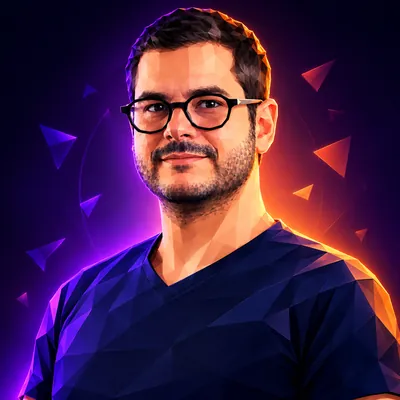
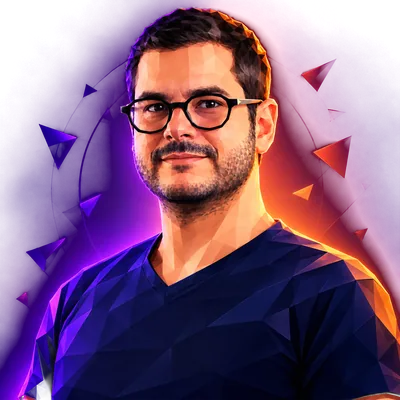
Portrait detoure

diff --git a/css/site.css b/css/site.css
@@ -1,1 +1,1 @@
-@font-face{font-family:Inter;src:url(../fonts/inter.woff2)format("woff2");font-weight:100 900;font-display:swap}@font-face{font-family:Geist;src:url(../fonts/geist.woff2)format("woff2");font-weight:100 900;font-display:swap}@font-face{font-family:JetBrains Mono;src:url(../fonts/jetbrains-mono.woff2)format("woff2");font-weight:100 800;font-display:swap}:root{--fond:#0b1120;--surface:#111c30;--surface-2:#17243a;--texte:#e6edf7;--doux:#94a3b8;--accent:#60a5fa;--cyan:#22d3ee;--ligne:#263750;--async:var(--cyan);--echec:#fcd34d;--titres:"Geist",system-ui,sans-serif;--sans:"Inter",system-ui,sans-serif;--mono:"JetBrains Mono",ui-monospace,Menlo,Consolas,monospace;--ease:cubic-bezier(.22,.61,.36,1);--d-court:.2s;--d-moyen:.35s;--d-entree:.5s}*,:before,:after{box-sizing:border-box}html{scroll-behavior:smooth}body{background:var(--fond);color:var(--texte);font:400 1.0625rem/1.65 var(--sans);-webkit-font-smoothing:antialiased;margin:0}a{color:inherit}:focus-visible{outline:2px solid var(--accent);outline-offset:3px;border-radius:4px}h1,h2,h3,h4,p,ul,figure,blockquote{margin:0}h1,h2,h3,h4{font-family:var(--titres)}ul{padding:0;list-style:none}.evitement{z-index:10;background:var(--accent);color:var(--fond);border-radius:6px;padding:.7rem 1rem;font-weight:600;text-decoration:none;position:absolute;top:-5rem;left:1rem}.evitement:focus{top:1rem}.page{width:min(800px,100% - 2.5rem);margin-inline:auto}.colonne-gauche{text-align:center;padding:2.5rem 0 1rem}main{min-width:0;padding-bottom:5rem}@media (width>=1024px){.page{grid-template-columns:260px minmax(0,800px);justify-content:center;column-gap:clamp(3rem,7vw,7rem);width:auto;padding-inline:2.5rem;display:grid}.colonne-gauche{overscroll-behavior:contain;scrollbar-width:thin;scrollbar-color:var(--ligne)transparent;flex-direction:column;height:100dvh;padding:2.5rem 0 1.5rem;display:flex;position:sticky;top:0;overflow-y:auto}main{padding-top:6rem}}.portrait{object-fit:cover;width:168px;height:168px;margin:0 auto .5rem;display:block;-webkit-mask-image:radial-gradient(circle at 50% 45%,#000 52%,#0000 71%);mask-image:radial-gradient(circle at 50% 45%,#000 52%,#0000 71%)}.colonne-gauche :is(h1,.titre,.slogan,.pitch){text-wrap:balance}h1{letter-spacing:-.025em;font-size:1.875rem;font-weight:600;line-height:1.1}.titre{font:500 1rem/1.35 var(--titres);color:var(--accent);margin-top:.6rem}.slogan{color:var(--texte);margin-top:.75rem;font-size:.9375rem;line-height:1.5}.pitch{color:var(--doux);margin-top:.75rem;font-size:.9375rem;line-height:1.55}.reperes{font:500 .875rem/1.65 var(--mono);color:var(--doux);margin-top:.9rem}.situation{color:var(--doux);margin-top:.9rem;font-size:.875rem}.nav{text-align:left;margin-top:1.5rem}.nav ul{position:relative}.nav a{border-left:2px solid var(--ligne);min-height:44px;color:var(--doux);transition:color var(--d-court)var(--ease);align-items:center;padding-left:1rem;font-size:.9375rem;text-decoration:none;display:flex}.nav a:hover{color:var(--texte)}.nav a[aria-current=true]{color:var(--texte);font-weight:600}@media (width>=1024px){.nav ul:before{content:"";width:2px;height:var(--indic-h,44px);background:var(--accent);transform:translateY(var(--indic-y,0px));transition:transform var(--d-moyen)var(--ease);position:absolute;top:0;left:0}html:not(.js) .nav ul:before{display:none}}.reseaux{flex-wrap:wrap;justify-content:center;gap:0 1rem;margin-top:1rem;display:flex}@media (width>=1024px){.reseaux{justify-content:flex-start;margin-top:auto;padding-top:.75rem}}.reseaux a{min-height:44px;color:var(--doux);transition:color var(--d-court)var(--ease);align-items:center;font-size:.875rem;text-decoration:none;display:inline-flex}.reseaux a:hover{color:var(--texte)}.reseaux a span{border-bottom:1px solid var(--ligne);position:relative}.reseaux a span:after{content:"";background:var(--accent);transform-origin:0;height:1px;transition:transform var(--d-court)var(--ease);position:absolute;bottom:-1px;left:0;right:0;transform:scaleX(0)}.reseaux a:hover span:after,.reseaux a:focus-visible span:after{transform:scaleX(1)}.barre-mobile{z-index:20;background:var(--fond);border-bottom:1px solid var(--ligne);justify-content:space-between;align-items:center;gap:1rem;height:56px;padding:0 1.25rem;display:flex;position:sticky;top:0}.nom-court{min-height:44px;font:600 1rem var(--titres);letter-spacing:-.01em;align-items:center;text-decoration:none;display:inline-flex}.menu{border:1px solid var(--doux);min-width:44px;min-height:44px;color:var(--texte);font:500 .9375rem var(--sans);cursor:pointer;background:0 0;border-radius:6px;align-items:center;gap:.6rem;padding:0 .9rem;display:inline-flex}.menu:before{content:"";width:16px;height:8px;transition:transform var(--d-court)var(--ease);border-block:2px solid}.menu[aria-expanded=true]{border-color:var(--accent);color:var(--accent)}html:not(.js) .menu{display:none}@media (width<=1023px){.js .nav{z-index:19;background:var(--surface);border-bottom:1px solid var(--doux);max-height:calc(100dvh - 56px);margin:0;padding:.75rem 1.25rem 1.25rem;display:none;position:fixed;top:56px;left:0;right:0;overflow-y:auto}.js.menu-ouvert .nav{display:block}.nav a{min-height:48px;font-size:1rem}.nav a[aria-current=true]{border-left-color:var(--accent)}.js .colonne-gauche>.nav{animation:none}}@media (width>=1024px){.barre-mobile{display:none}}.chapeau{display:none}@media (width>=1024px) and (height<=1199px){.colonne-gauche .pitch,.colonne-gauche .reperes{display:none}.chapeau{border-left:2px solid var(--accent);margin-bottom:4.5rem;padding-left:1.25rem;display:block}.chapeau .pitch{max-width:62ch;color:var(--texte);margin:0;font-size:1.125rem;line-height:1.6}.chapeau .reperes{flex-wrap:wrap;gap:.25rem 1.5rem;margin-top:.9rem;display:flex}}@media (width>=1024px) and (height<=860px){.colonne-gauche{padding-top:1.25rem;padding-bottom:.75rem}.portrait{width:100px;height:100px;margin-bottom:.3rem}h1{font-size:1.5rem}.titre,.slogan,.situation{margin-top:.4rem}.nav{margin-top:.6rem}.reseaux{padding-top:.25rem}main{padding-top:4rem}}main>section{padding-top:5.5rem}main>section:first-of-type{padding-top:0}main>section{scroll-margin-top:5rem}@media (width>=1024px){main>section{scroll-margin-top:2rem}}h2{letter-spacing:-.02em;margin-bottom:2rem;font-size:clamp(1.5rem,1.2rem + 1vw,1.875rem);font-weight:600;line-height:1.2}.prose{max-width:68ch}.prose p{color:var(--texte);font-size:1.0625rem;line-height:1.7}.prose p+p{margin-top:1.1rem}.prose .moteur{border-left:2px solid var(--accent);margin-top:1.6rem;padding-left:1rem;font-weight:600}.lignes{gap:.25rem;display:grid}.ligne{transition:background-color var(--d-court)var(--ease),opacity var(--d-court)var(--ease);border-radius:8px;gap:.25rem 1.5rem;margin-inline:-1rem;padding:1rem;display:grid;position:relative}@media (width>=640px){.ligne{grid-template-columns:8.5rem 1fr}}@media (hover:hover){.lignes:hover .ligne{opacity:.55}.lignes .ligne:hover,.lignes .ligne:focus-within{opacity:1;background:var(--surface)}}.dates{font:500 .875rem/1.75 var(--mono);letter-spacing:.02em;color:var(--doux);text-transform:uppercase}.ligne h3{font-size:1.0625rem;font-weight:600;line-height:1.4}.ligne h3 .org{color:var(--doux);font-weight:500}.ligne p.desc{color:var(--doux);margin-top:.35rem;font-size:1rem}.tags{flex-wrap:wrap;gap:.4rem;margin-top:.75rem;display:flex}.tags li{font:500 .875rem/1 var(--mono);color:var(--texte);border:1px solid var(--ligne);transition:border-color var(--d-court)var(--ease);border-radius:4px;padding:.4rem .55rem}.ligne:hover .tags li,.etape:hover .tags li{border-color:var(--doux)}.sous-titre{font:500 .875rem/1.4 var(--mono);letter-spacing:.06em;text-transform:uppercase;color:var(--doux);margin:3rem 0 1.25rem}.ligne a.etendu{text-decoration:none}.ligne a.etendu:after{content:"";border-radius:8px;position:absolute;inset:0}.ligne a.etendu:focus-visible{outline:none}.ligne:has(a.etendu:focus-visible){outline:2px solid var(--accent);outline-offset:2px}.ligne a.etendu .fleche{color:var(--doux);transition:transform var(--d-court)var(--ease),color var(--d-court)var(--ease);margin-left:.3rem;display:inline-block}.ligne:hover a.etendu .fleche{color:var(--accent);transform:translate(2px,-2px)}.timeline{margin:0;padding:0;list-style:none}.etape{border-left:1px solid var(--ligne);gap:.2rem 1.75rem;padding:0 0 2.5rem 1.75rem;display:grid;position:relative}.etape:last-child{padding-bottom:.25rem}.etape:before{content:"";border:2px solid var(--cyan);background:var(--fond);width:11px;height:11px;transition:background-color var(--d-court)var(--ease);border-radius:50%;position:absolute;top:.45rem;left:-6px}.timeline:first-of-type .etape:first-child:before,.etape:hover:before{background:var(--cyan)}@media (width>=640px){.etape{grid-template-columns:8rem 1fr}}.etape h3{font-size:1.125rem;font-weight:600;line-height:1.4}.etape h3 .org{color:var(--doux);font-weight:500}.etape p.desc{max-width:62ch;color:var(--doux);margin-top:.4rem;font-size:1rem}.domaines{border-top:1px solid var(--ligne)}.domaine{border-bottom:1px solid var(--ligne);gap:.6rem 2rem;padding:1.5rem 0;display:grid}@media (width>=768px){.domaine{grid-template-columns:14rem 1fr}}.domaine h3{font-size:1.0625rem;font-weight:600;line-height:1.45}.savoirs{color:var(--texte);flex-wrap:wrap;gap:.3rem 0;line-height:1.55;display:flex}.savoirs li:not(:last-child):after{content:"/";color:var(--doux);margin:0 .65rem}.interets{border-top:1px solid var(--ligne)}.interet{border-bottom:1px solid var(--ligne);grid-template-columns:3.5rem 1fr;align-items:start;gap:1.25rem;padding:1.4rem 0;display:grid}.interet svg{fill:none;width:56px;height:56px;stroke:var(--doux);stroke-width:1.4px;stroke-linecap:round;stroke-linejoin:round}.interet svg .acc{stroke:var(--cyan)}.interet h3{font-size:1.0625rem;font-weight:600;line-height:1.45}.interet p{max-width:62ch;color:var(--doux);margin-top:.25rem}.interet a{color:var(--texte);text-underline-offset:3px;text-decoration-color:var(--doux)}.interet a:hover{color:var(--accent)}.cas+.cas{border-top:1px solid var(--ligne);margin-top:3.5rem;padding-top:2.5rem}.cas-entete .dates{margin-bottom:.25rem;display:block}.cas-entete h3{letter-spacing:-.02em;font-size:1.75rem;font-weight:600;line-height:1.2}.cas-entete p{max-width:68ch;color:var(--texte);margin-top:.6rem}.bascule{width:100%;min-height:44px;color:inherit;font:inherit;letter-spacing:inherit;text-align:left;cursor:pointer;transition:color var(--d-court)var(--ease);background:0 0;border:0;justify-content:space-between;align-items:center;gap:1rem;padding:0;display:flex}.bascule:hover{color:var(--accent)}.signe{border:1px solid var(--doux);border-radius:50%;flex:none;width:2.25rem;height:2.25rem;position:relative}.signe:before,.signe:after{content:"";width:.8rem;height:2px;transition:transform var(--d-moyen)var(--ease);background:currentColor;margin:-1px 0 0 -.4rem;position:absolute;top:50%;left:50%}.signe:after{transform:rotate(90deg)}.bascule[aria-expanded=true] .signe:before,.bascule[aria-expanded=true] .signe:after{transform:rotate(180deg)}html:not(.js) .bascule{cursor:default}html:not(.js) .signe{display:none}.js .cas-detail{grid-template-rows:1fr;display:grid}.js .cas-interieur{min-height:0;overflow:hidden}.js .cas-detail.ferme{visibility:hidden;grid-template-rows:0fr}.js .cas-detail.anime{transition:grid-template-rows var(--d-moyen)var(--ease),visibility 0s}.js .cas-detail.anime.ferme{transition:grid-template-rows var(--d-moyen)var(--ease),visibility 0s var(--d-moyen)}.schema{background:var(--surface);border:1px solid var(--ligne);border-radius:10px;margin:2rem 0;padding:clamp(.75rem,2vw,1.25rem)}.schema-haut{flex-wrap:wrap;justify-content:space-between;align-items:center;gap:.5rem 1rem;margin-bottom:.75rem;display:flex}.schema-defile{overscroll-behavior-x:contain;border-radius:6px;overflow-x:auto}.schema figcaption{max-width:72ch;color:var(--doux);margin-top:1rem;font-size:.9375rem}.legende{font:500 .875rem/1.6 var(--mono);color:var(--doux);flex-wrap:wrap;gap:.25rem 1.25rem;display:flex}.legende span:before{content:"";vertical-align:middle;border-top:2px solid;width:1.4rem;height:0;margin-right:.45rem;display:inline-block}.legende .l-req:before{border-color:var(--accent)}.legende .l-async:before{border-color:var(--async)}.legende .l-echec:before{border-color:var(--echec);border-top-style:dashed}.agrandir{border:1px solid var(--doux);min-height:44px;color:var(--texte);font:500 .875rem var(--mono);cursor:pointer;transition:border-color var(--d-court)var(--ease),color var(--d-court)var(--ease);background:0 0;border-radius:6px;align-items:center;gap:.5rem;padding:0 .9rem;display:inline-flex}.agrandir:hover{border-color:var(--accent);color:var(--accent)}.agrandir svg{fill:none;stroke:currentColor;stroke-width:1.6px;stroke-linecap:round;stroke-linejoin:round;width:16px;height:16px}html:not(.js) .agrandir{display:none}.archi{width:100%;min-width:750px;height:auto;display:block}.archi text{text-anchor:middle}.archi .n{fill:var(--surface-2);stroke:var(--ligne)}.archi .d{fill:var(--fond);stroke:var(--ligne)}.archi .acc{stroke:var(--accent)}.archi .asy{stroke:var(--async)}.archi .ech{stroke:var(--echec);stroke-dasharray:4 3}.archi .cadre{fill:none;stroke:var(--doux);stroke-dasharray:6 4}.archi .badge{fill:var(--fond);stroke:var(--accent)}.archi .t{font:600 15px var(--titres);fill:var(--texte)}.archi .s{font:400 12px var(--sans);fill:var(--doux)}.archi .m{font:500 12px var(--mono);fill:var(--doux)}.archi text.g{text-anchor:start}.archi text.asy{fill:var(--async);stroke:none}.archi text.ech{fill:var(--echec);stroke:none}.archi text.cert{fill:var(--accent)}.archi .liens{fill:none;stroke:var(--doux);stroke-width:1.5px}.archi .liens .ech{stroke:var(--echec);stroke-dasharray:4 4}.archi .trajets{fill:none;stroke:none}.zoom{border:1px solid var(--ligne);background:var(--fond);width:calc(100vw - 2rem);max-width:1500px;height:calc(100dvh - 2rem);max-height:none;color:var(--texte);border-radius:12px;padding:0}.zoom[open]{flex-direction:column;display:flex}.zoom::backdrop{background:#0b1120e0}.zoom-barre{border-bottom:1px solid var(--ligne);background:var(--surface);justify-content:space-between;align-items:center;gap:1rem;padding-left:1.25rem;display:flex}.zoom-barre p{font:600 1rem/1.3 var(--titres)}.zoom-corps{flex:1;min-height:0;padding:1rem;display:flex;overflow:auto}.zoom-corps .archi{flex:none;height:calc(100dvh - 7.5rem);margin:auto}@media (width<=1023px){.zoom-corps .archi{height:auto}}@media (prefers-reduced-motion:no-preference){.zoom[open]{animation:entree var(--d-moyen)var(--ease)}}.cas-interieur>.rubrique:first-child{margin-top:1.5rem}.rubrique{border-top:1px solid var(--ligne);gap:.6rem 2rem;padding:1.4rem 0;display:grid}@media (width>=768px){.rubrique{grid-template-columns:10.5rem 1fr}}.rubrique h4{color:var(--doux);font-size:1rem;font-weight:600;line-height:1.6}.rubrique p,.puces>li{max-width:68ch;color:var(--texte)}.puces{gap:.55rem;display:grid}.puces>li{padding-left:1.1rem;position:relative}.puces>li:before{content:"";border-top:1px solid var(--doux);width:.5rem;position:absolute;top:.8em;left:0}.encadre{background:var(--surface);border:1px solid var(--ligne);border-radius:8px;margin-top:1.25rem;padding:1rem 1.1rem}.encadre-titre{font:500 .875rem/1.4 var(--mono);color:var(--doux)}.encadre .tags{margin-top:.6rem}.citations{gap:1.25rem;display:grid}.citation{border-left:2px solid var(--ligne);background:var(--surface);border-radius:0 8px 8px 0;padding:1.25rem 1.25rem 1.25rem 1.5rem}.citation blockquote p{color:var(--texte)}.citation figcaption{color:var(--doux);margin-top:.9rem;font-size:.9rem}.citation figcaption a{min-height:44px;color:var(--texte);text-underline-offset:3px;text-decoration-color:var(--ligne);align-items:center;font-weight:600;display:inline-flex}.citation figcaption a:hover{text-decoration-color:var(--accent)}.contact h2{text-wrap:balance;max-width:22ch;font-size:clamp(1.75rem,1.3rem + 1.6vw,2.5rem);line-height:1.15}.contact p{max-width:62ch;color:var(--texte)}.courriel{min-height:44px;color:var(--accent);text-underline-offset:6px;overflow-wrap:anywhere;align-items:center;margin-top:1rem;font-size:clamp(1.05rem,3.6vw,1.5rem);font-weight:600;text-decoration-thickness:1px;display:inline-flex}.contact-liens{flex-wrap:wrap;gap:0 1.5rem;margin-top:.5rem;display:flex}.contact-liens a{min-height:44px;color:var(--texte);text-underline-offset:4px;text-decoration-color:var(--doux);align-items:center;display:inline-flex}.contact-liens a:hover{color:var(--accent);text-decoration-color:var(--accent)}.pied{color:var(--doux);margin-top:4rem;font-size:.875rem}.lecteur{clip-path:inset(50%);white-space:nowrap;width:1px;height:1px;position:absolute;overflow:hidden}.oeuf{min-width:44px;min-height:44px;color:var(--doux);font:500 .875rem var(--mono);cursor:pointer;transition:color var(--d-court)var(--ease);background:0 0;border:0;justify-content:center;align-items:center;margin-left:.25rem;padding:0;display:inline-flex}.oeuf:hover{color:var(--accent)}html:not(.js) .oeuf{display:none}.terminal{border:1px solid var(--ligne);background:var(--fond);width:min(40rem,100% - 2rem);max-height:min(32rem,100% - 2rem);color:var(--texte);font:400 .9375rem/1.6 var(--mono);border-radius:10px;padding:0;box-shadow:0 24px 60px #00000080}.terminal[open]{flex-direction:column;display:flex}.terminal::backdrop{background:#0b1120cc}.terminal-barre{background:var(--surface);border-bottom:1px solid var(--ligne);justify-content:space-between;align-items:center;gap:1rem;padding-left:1rem;display:flex}.terminal-barre p{color:var(--doux);font-size:.875rem}.terminal-fermer{width:44px;height:44px;color:var(--doux);font:400 1.25rem/1 var(--sans);cursor:pointer;transition:color var(--d-court)var(--ease);background:0 0;border:0}.terminal-fermer:hover{color:var(--texte)}.terminal-fermer:focus-visible{outline-offset:-4px}.terminal-sortie{overscroll-behavior:contain;flex:1;padding:.9rem 1rem 0;overflow-y:auto}.terminal-sortie p{white-space:pre-wrap;overflow-wrap:anywhere;color:var(--texte)}.terminal-sortie .commande{color:var(--texte);margin-top:.6rem}.terminal-sortie .commande:before{content:"$ ";color:var(--cyan)}.terminal-ligne label{color:var(--cyan)}.terminal-ligne{border:1px solid var(--doux);border-radius:6px;align-items:center;gap:.6rem;margin:.4rem 1rem .9rem;padding:0 .75rem;display:flex}.terminal-ligne input{min-width:0;min-height:44px;color:var(--texte);font:inherit;caret-color:var(--cyan);background:0 0;border:0;flex:1;padding:0}.terminal-ligne input:focus{outline:none}.terminal:has(input:focus-visible) .terminal-ligne{border-color:var(--accent);box-shadow:0 0 0 1px var(--accent)}@media (prefers-reduced-motion:no-preference){.terminal[open]{animation:entree var(--d-moyen)var(--ease)}}@keyframes entree{0%{opacity:0;transform:translateY(14px)}}@media (prefers-reduced-motion:no-preference){.js .colonne-gauche>*,.js main>:is(.chapeau,section:first-of-type),.js .portrait{animation:entree var(--d-entree)var(--ease)backwards}.js .colonne-gauche>:nth-child(2){animation-delay:50ms}.js .colonne-gauche>:nth-child(3){animation-delay:.1s}.js .colonne-gauche>:nth-child(4){animation-delay:.15s}.js .colonne-gauche>:nth-child(n+5),.js main>:is(.chapeau,section:first-of-type){animation-delay:.2s}.js .portrait{animation-delay:.25s}.js .revele:not(.vu),.js .schema.revele:not(.vu) svg>g:last-of-type>*{opacity:0}.js .revele.vu,.js .schema.vu svg>g:last-of-type>*{animation:entree var(--d-entree)var(--ease)var(--delai,0s)backwards}.js .schema.vu svg>g:last-of-type>*{animation-name:entree-svg}@keyframes entree-svg{0%{opacity:0;transform:translateY(6px)}}}@media (prefers-reduced-motion:reduce){html{scroll-behavior:auto}.point{display:none}*,:before,:after{transition:none!important;animation:none!important}}
+@font-face{font-family:Inter;src:url(../fonts/inter.woff2)format("woff2");font-weight:100 900;font-display:swap}@font-face{font-family:Geist;src:url(../fonts/geist.woff2)format("woff2");font-weight:100 900;font-display:swap}@font-face{font-family:JetBrains Mono;src:url(../fonts/jetbrains-mono.woff2)format("woff2");font-weight:100 800;font-display:swap}:root{--fond:#0b1120;--surface:#111c30;--surface-2:#17243a;--texte:#e6edf7;--doux:#94a3b8;--accent:#60a5fa;--cyan:#22d3ee;--ligne:#263750;--async:var(--cyan);--echec:#fcd34d;--titres:"Geist",system-ui,sans-serif;--sans:"Inter",system-ui,sans-serif;--mono:"JetBrains Mono",ui-monospace,Menlo,Consolas,monospace;--ease:cubic-bezier(.22,.61,.36,1);--d-court:.2s;--d-moyen:.35s;--d-entree:.5s}*,:before,:after{box-sizing:border-box}html{scroll-behavior:smooth}body{background:var(--fond);color:var(--texte);font:400 1.0625rem/1.65 var(--sans);-webkit-font-smoothing:antialiased;margin:0}a{color:inherit}:focus-visible{outline:2px solid var(--accent);outline-offset:3px;border-radius:4px}h1,h2,h3,h4,p,ul,figure,blockquote{margin:0}h1,h2,h3,h4{font-family:var(--titres)}ul{padding:0;list-style:none}.evitement{z-index:10;background:var(--accent);color:var(--fond);border-radius:6px;padding:.7rem 1rem;font-weight:600;text-decoration:none;position:absolute;top:-5rem;left:1rem}.evitement:focus{top:1rem}.page{width:min(800px,100% - 2.5rem);margin-inline:auto}.colonne-gauche{text-align:center;padding:2.5rem 0 1rem}main{min-width:0;padding-bottom:5rem}@media (width>=1024px){.page{grid-template-columns:260px minmax(0,800px);justify-content:center;column-gap:clamp(3rem,7vw,7rem);width:auto;padding-inline:2.5rem;display:grid}.colonne-gauche{overscroll-behavior:contain;scrollbar-width:thin;scrollbar-color:var(--ligne)transparent;flex-direction:column;height:100dvh;padding:2.5rem 0 1.5rem;display:flex;position:sticky;top:0;overflow-y:auto}main{padding-top:6rem}}.portrait{object-fit:cover;width:168px;height:168px;margin:0 auto .5rem;display:block;-webkit-mask-image:linear-gradient(#000 75%,#0000);mask-image:linear-gradient(#000 75%,#0000)}.colonne-gauche :is(h1,.titre,.slogan,.pitch){text-wrap:balance}h1{letter-spacing:-.025em;font-size:1.875rem;font-weight:600;line-height:1.1}.titre{font:500 1rem/1.35 var(--titres);color:var(--accent);margin-top:.6rem}.slogan{color:var(--texte);margin-top:.75rem;font-size:.9375rem;line-height:1.5}.pitch{color:var(--doux);margin-top:.75rem;font-size:.9375rem;line-height:1.55}.reperes{font:500 .875rem/1.65 var(--mono);color:var(--doux);margin-top:.9rem}.situation{color:var(--doux);margin-top:.9rem;font-size:.875rem}.nav{text-align:left;margin-top:1.5rem}.nav ul{position:relative}.nav a{border-left:2px solid var(--ligne);min-height:44px;color:var(--doux);transition:color var(--d-court)var(--ease);align-items:center;padding-left:1rem;font-size:.9375rem;text-decoration:none;display:flex}.nav a:hover{color:var(--texte)}.nav a[aria-current=true]{color:var(--texte);font-weight:600}@media (width>=1024px){.nav ul:before{content:"";width:2px;height:var(--indic-h,44px);background:var(--accent);transform:translateY(var(--indic-y,0px));transition:transform var(--d-moyen)var(--ease);position:absolute;top:0;left:0}html:not(.js) .nav ul:before{display:none}}.reseaux{flex-wrap:wrap;justify-content:center;gap:0 1rem;margin-top:1rem;display:flex}@media (width>=1024px){.reseaux{justify-content:flex-start;margin-top:auto;padding-top:.75rem}}.reseaux a{min-height:44px;color:var(--doux);transition:color var(--d-court)var(--ease);align-items:center;font-size:.875rem;text-decoration:none;display:inline-flex}.reseaux a:hover{color:var(--texte)}.reseaux a span{border-bottom:1px solid var(--ligne);position:relative}.reseaux a span:after{content:"";background:var(--accent);transform-origin:0;height:1px;transition:transform var(--d-court)var(--ease);position:absolute;bottom:-1px;left:0;right:0;transform:scaleX(0)}.reseaux a:hover span:after,.reseaux a:focus-visible span:after{transform:scaleX(1)}.barre-mobile{z-index:20;background:var(--fond);border-bottom:1px solid var(--ligne);justify-content:space-between;align-items:center;gap:1rem;height:56px;padding:0 1.25rem;display:flex;position:sticky;top:0}.nom-court{min-height:44px;font:600 1rem var(--titres);letter-spacing:-.01em;align-items:center;text-decoration:none;display:inline-flex}.menu{border:1px solid var(--doux);min-width:44px;min-height:44px;color:var(--texte);font:500 .9375rem var(--sans);cursor:pointer;background:0 0;border-radius:6px;align-items:center;gap:.6rem;padding:0 .9rem;display:inline-flex}.menu:before{content:"";width:16px;height:8px;transition:transform var(--d-court)var(--ease);border-block:2px solid}.menu[aria-expanded=true]{border-color:var(--accent);color:var(--accent)}html:not(.js) .menu{display:none}@media (width<=1023px){.js .nav{z-index:19;background:var(--surface);border-bottom:1px solid var(--doux);max-height:calc(100dvh - 56px);margin:0;padding:.75rem 1.25rem 1.25rem;display:none;position:fixed;top:56px;left:0;right:0;overflow-y:auto}.js.menu-ouvert .nav{display:block}.nav a{min-height:48px;font-size:1rem}.nav a[aria-current=true]{border-left-color:var(--accent)}.js .colonne-gauche>.nav{animation:none}}@media (width>=1024px){.barre-mobile{display:none}}.chapeau{display:none}@media (width>=1024px) and (height<=1199px){.colonne-gauche .pitch,.colonne-gauche .reperes{display:none}.chapeau{border-left:2px solid var(--accent);margin-bottom:4.5rem;padding-left:1.25rem;display:block}.chapeau .pitch{max-width:62ch;color:var(--texte);margin:0;font-size:1.125rem;line-height:1.6}.chapeau .reperes{flex-wrap:wrap;gap:.25rem 1.5rem;margin-top:.9rem;display:flex}}@media (width>=1024px) and (height<=860px){.colonne-gauche{padding-top:1.25rem;padding-bottom:.75rem}.portrait{width:100px;height:100px;margin-bottom:.3rem}h1{font-size:1.5rem}.titre,.slogan,.situation{margin-top:.4rem}.nav{margin-top:.6rem}.reseaux{padding-top:.25rem}main{padding-top:4rem}}main>section{padding-top:5.5rem}main>section:first-of-type{padding-top:0}main>section{scroll-margin-top:5rem}@media (width>=1024px){main>section{scroll-margin-top:2rem}}h2{letter-spacing:-.02em;margin-bottom:2rem;font-size:clamp(1.5rem,1.2rem + 1vw,1.875rem);font-weight:600;line-height:1.2}.prose{max-width:68ch}.prose p{color:var(--texte);font-size:1.0625rem;line-height:1.7}.prose p+p{margin-top:1.1rem}.prose .moteur{border-left:2px solid var(--accent);margin-top:1.6rem;padding-left:1rem;font-weight:600}.lignes{gap:.25rem;display:grid}.ligne{transition:background-color var(--d-court)var(--ease),opacity var(--d-court)var(--ease);border-radius:8px;gap:.25rem 1.5rem;margin-inline:-1rem;padding:1rem;display:grid;position:relative}@media (width>=640px){.ligne{grid-template-columns:8.5rem 1fr}}@media (hover:hover){.lignes:hover .ligne{opacity:.55}.lignes .ligne:hover,.lignes .ligne:focus-within{opacity:1;background:var(--surface)}}.dates{font:500 .875rem/1.75 var(--mono);letter-spacing:.02em;color:var(--doux);text-transform:uppercase}.ligne h3{font-size:1.0625rem;font-weight:600;line-height:1.4}.ligne h3 .org{color:var(--doux);font-weight:500}.ligne p.desc{color:var(--doux);margin-top:.35rem;font-size:1rem}.tags{flex-wrap:wrap;gap:.4rem;margin-top:.75rem;display:flex}.tags li{font:500 .875rem/1 var(--mono);color:var(--texte);border:1px solid var(--ligne);transition:border-color var(--d-court)var(--ease);border-radius:4px;padding:.4rem .55rem}.ligne:hover .tags li,.etape:hover .tags li{border-color:var(--doux)}.sous-titre{font:500 .875rem/1.4 var(--mono);letter-spacing:.06em;text-transform:uppercase;color:var(--doux);margin:3rem 0 1.25rem}.ligne a.etendu{text-decoration:none}.ligne a.etendu:after{content:"";border-radius:8px;position:absolute;inset:0}.ligne a.etendu:focus-visible{outline:none}.ligne:has(a.etendu:focus-visible){outline:2px solid var(--accent);outline-offset:2px}.ligne a.etendu .fleche{color:var(--doux);transition:transform var(--d-court)var(--ease),color var(--d-court)var(--ease);margin-left:.3rem;display:inline-block}.ligne:hover a.etendu .fleche{color:var(--accent);transform:translate(2px,-2px)}.timeline{margin:0;padding:0;list-style:none}.etape{border-left:1px solid var(--ligne);gap:.2rem 1.75rem;padding:0 0 2.5rem 1.75rem;display:grid;position:relative}.etape:last-child{padding-bottom:.25rem}.etape:before{content:"";border:2px solid var(--cyan);background:var(--fond);width:11px;height:11px;transition:background-color var(--d-court)var(--ease);border-radius:50%;position:absolute;top:.45rem;left:-6px}.timeline:first-of-type .etape:first-child:before,.etape:hover:before{background:var(--cyan)}@media (width>=640px){.etape{grid-template-columns:8rem 1fr}}.etape h3{font-size:1.125rem;font-weight:600;line-height:1.4}.etape h3 .org{color:var(--doux);font-weight:500}.etape p.desc{max-width:62ch;color:var(--doux);margin-top:.4rem;font-size:1rem}.domaines{border-top:1px solid var(--ligne)}.domaine{border-bottom:1px solid var(--ligne);gap:.6rem 2rem;padding:1.5rem 0;display:grid}@media (width>=768px){.domaine{grid-template-columns:14rem 1fr}}.domaine h3{font-size:1.0625rem;font-weight:600;line-height:1.45}.savoirs{color:var(--texte);flex-wrap:wrap;gap:.3rem 0;line-height:1.55;display:flex}.savoirs li:not(:last-child):after{content:"/";color:var(--doux);margin:0 .65rem}.interets{border-top:1px solid var(--ligne)}.interet{border-bottom:1px solid var(--ligne);grid-template-columns:3.5rem 1fr;align-items:start;gap:1.25rem;padding:1.4rem 0;display:grid}.interet svg{fill:none;width:56px;height:56px;stroke:var(--doux);stroke-width:1.4px;stroke-linecap:round;stroke-linejoin:round}.interet svg .acc{stroke:var(--cyan)}.interet h3{font-size:1.0625rem;font-weight:600;line-height:1.45}.interet p{max-width:62ch;color:var(--doux);margin-top:.25rem}.interet a{color:var(--texte);text-underline-offset:3px;text-decoration-color:var(--doux)}.interet a:hover{color:var(--accent)}.cas+.cas{border-top:1px solid var(--ligne);margin-top:3.5rem;padding-top:2.5rem}.cas-entete .dates{margin-bottom:.25rem;display:block}.cas-entete h3{letter-spacing:-.02em;font-size:1.75rem;font-weight:600;line-height:1.2}.cas-entete p{max-width:68ch;color:var(--texte);margin-top:.6rem}.bascule{width:100%;min-height:44px;color:inherit;font:inherit;letter-spacing:inherit;text-align:left;cursor:pointer;transition:color var(--d-court)var(--ease);background:0 0;border:0;justify-content:space-between;align-items:center;gap:1rem;padding:0;display:flex}.bascule:hover{color:var(--accent)}.signe{border:1px solid var(--doux);border-radius:50%;flex:none;width:2.25rem;height:2.25rem;position:relative}.signe:before,.signe:after{content:"";width:.8rem;height:2px;transition:transform var(--d-moyen)var(--ease);background:currentColor;margin:-1px 0 0 -.4rem;position:absolute;top:50%;left:50%}.signe:after{transform:rotate(90deg)}.bascule[aria-expanded=true] .signe:before,.bascule[aria-expanded=true] .signe:after{transform:rotate(180deg)}html:not(.js) .bascule{cursor:default}html:not(.js) .signe{display:none}.js .cas-detail{grid-template-rows:1fr;display:grid}.js .cas-interieur{min-height:0;overflow:hidden}.js .cas-detail.ferme{visibility:hidden;grid-template-rows:0fr}.js .cas-detail.anime{transition:grid-template-rows var(--d-moyen)var(--ease),visibility 0s}.js .cas-detail.anime.ferme{transition:grid-template-rows var(--d-moyen)var(--ease),visibility 0s var(--d-moyen)}.schema{background:var(--surface);border:1px solid var(--ligne);border-radius:10px;margin:2rem 0;padding:clamp(.75rem,2vw,1.25rem)}.schema-haut{flex-wrap:wrap;justify-content:space-between;align-items:center;gap:.5rem 1rem;margin-bottom:.75rem;display:flex}.schema-defile{overscroll-behavior-x:contain;border-radius:6px;overflow-x:auto}.schema figcaption{max-width:72ch;color:var(--doux);margin-top:1rem;font-size:.9375rem}.legende{font:500 .875rem/1.6 var(--mono);color:var(--doux);flex-wrap:wrap;gap:.25rem 1.25rem;display:flex}.legende span:before{content:"";vertical-align:middle;border-top:2px solid;width:1.4rem;height:0;margin-right:.45rem;display:inline-block}.legende .l-req:before{border-color:var(--accent)}.legende .l-async:before{border-color:var(--async)}.legende .l-echec:before{border-color:var(--echec);border-top-style:dashed}.agrandir{border:1px solid var(--doux);min-height:44px;color:var(--texte);font:500 .875rem var(--mono);cursor:pointer;transition:border-color var(--d-court)var(--ease),color var(--d-court)var(--ease);background:0 0;border-radius:6px;align-items:center;gap:.5rem;padding:0 .9rem;display:inline-flex}.agrandir:hover{border-color:var(--accent);color:var(--accent)}.agrandir svg{fill:none;stroke:currentColor;stroke-width:1.6px;stroke-linecap:round;stroke-linejoin:round;width:16px;height:16px}html:not(.js) .agrandir{display:none}.archi{width:100%;min-width:750px;height:auto;display:block}.archi text{text-anchor:middle}.archi .n{fill:var(--surface-2);stroke:var(--ligne)}.archi .d{fill:var(--fond);stroke:var(--ligne)}.archi .acc{stroke:var(--accent)}.archi .asy{stroke:var(--async)}.archi .ech{stroke:var(--echec);stroke-dasharray:4 3}.archi .cadre{fill:none;stroke:var(--doux);stroke-dasharray:6 4}.archi .badge{fill:var(--fond);stroke:var(--accent)}.archi .t{font:600 15px var(--titres);fill:var(--texte)}.archi .s{font:400 12px var(--sans);fill:var(--doux)}.archi .m{font:500 12px var(--mono);fill:var(--doux)}.archi text.g{text-anchor:start}.archi text.asy{fill:var(--async);stroke:none}.archi text.ech{fill:var(--echec);stroke:none}.archi text.cert{fill:var(--accent)}.archi .liens{fill:none;stroke:var(--doux);stroke-width:1.5px}.archi .liens .ech{stroke:var(--echec);stroke-dasharray:4 4}.archi .trajets{fill:none;stroke:none}.zoom{border:1px solid var(--ligne);background:var(--fond);width:calc(100vw - 2rem);max-width:1500px;height:calc(100dvh - 2rem);max-height:none;color:var(--texte);border-radius:12px;padding:0}.zoom[open]{flex-direction:column;display:flex}.zoom::backdrop{background:#0b1120e0}.zoom-barre{border-bottom:1px solid var(--ligne);background:var(--surface);justify-content:space-between;align-items:center;gap:1rem;padding-left:1.25rem;display:flex}.zoom-barre p{font:600 1rem/1.3 var(--titres)}.zoom-corps{flex:1;min-height:0;padding:1rem;display:flex;overflow:auto}.zoom-corps .archi{flex:none;height:calc(100dvh - 7.5rem);margin:auto}@media (width<=1023px){.zoom-corps .archi{height:auto}}@media (prefers-reduced-motion:no-preference){.zoom[open]{animation:entree var(--d-moyen)var(--ease)}}.cas-interieur>.rubrique:first-child{margin-top:1.5rem}.rubrique{border-top:1px solid var(--ligne);gap:.6rem 2rem;padding:1.4rem 0;display:grid}@media (width>=768px){.rubrique{grid-template-columns:10.5rem 1fr}}.rubrique h4{color:var(--doux);font-size:1rem;font-weight:600;line-height:1.6}.rubrique p,.puces>li{max-width:68ch;color:var(--texte)}.puces{gap:.55rem;display:grid}.puces>li{padding-left:1.1rem;position:relative}.puces>li:before{content:"";border-top:1px solid var(--doux);width:.5rem;position:absolute;top:.8em;left:0}.encadre{background:var(--surface);border:1px solid var(--ligne);border-radius:8px;margin-top:1.25rem;padding:1rem 1.1rem}.encadre-titre{font:500 .875rem/1.4 var(--mono);color:var(--doux)}.encadre .tags{margin-top:.6rem}.citations{gap:1.25rem;display:grid}.citation{border-left:2px solid var(--ligne);background:var(--surface);border-radius:0 8px 8px 0;padding:1.25rem 1.25rem 1.25rem 1.5rem}.citation blockquote p{color:var(--texte)}.citation figcaption{color:var(--doux);margin-top:.9rem;font-size:.9rem}.citation figcaption a{min-height:44px;color:var(--texte);text-underline-offset:3px;text-decoration-color:var(--ligne);align-items:center;font-weight:600;display:inline-flex}.citation figcaption a:hover{text-decoration-color:var(--accent)}.contact h2{text-wrap:balance;max-width:22ch;font-size:clamp(1.75rem,1.3rem + 1.6vw,2.5rem);line-height:1.15}.contact p{max-width:62ch;color:var(--texte)}.courriel{min-height:44px;color:var(--accent);text-underline-offset:6px;overflow-wrap:anywhere;align-items:center;margin-top:1rem;font-size:clamp(1.05rem,3.6vw,1.5rem);font-weight:600;text-decoration-thickness:1px;display:inline-flex}.contact-liens{flex-wrap:wrap;gap:0 1.5rem;margin-top:.5rem;display:flex}.contact-liens a{min-height:44px;color:var(--texte);text-underline-offset:4px;text-decoration-color:var(--doux);align-items:center;display:inline-flex}.contact-liens a:hover{color:var(--accent);text-decoration-color:var(--accent)}.pied{color:var(--doux);margin-top:4rem;font-size:.875rem}.lecteur{clip-path:inset(50%);white-space:nowrap;width:1px;height:1px;position:absolute;overflow:hidden}.oeuf{min-width:44px;min-height:44px;color:var(--doux);font:500 .875rem var(--mono);cursor:pointer;transition:color var(--d-court)var(--ease);background:0 0;border:0;justify-content:center;align-items:center;margin-left:.25rem;padding:0;display:inline-flex}.oeuf:hover{color:var(--accent)}html:not(.js) .oeuf{display:none}.terminal{border:1px solid var(--ligne);background:var(--fond);width:min(40rem,100% - 2rem);max-height:min(32rem,100% - 2rem);color:var(--texte);font:400 .9375rem/1.6 var(--mono);border-radius:10px;padding:0;box-shadow:0 24px 60px #00000080}.terminal[open]{flex-direction:column;display:flex}.terminal::backdrop{background:#0b1120cc}.terminal-barre{background:var(--surface);border-bottom:1px solid var(--ligne);justify-content:space-between;align-items:center;gap:1rem;padding-left:1rem;display:flex}.terminal-barre p{color:var(--doux);font-size:.875rem}.terminal-fermer{width:44px;height:44px;color:var(--doux);font:400 1.25rem/1 var(--sans);cursor:pointer;transition:color var(--d-court)var(--ease);background:0 0;border:0}.terminal-fermer:hover{color:var(--texte)}.terminal-fermer:focus-visible{outline-offset:-4px}.terminal-sortie{overscroll-behavior:contain;flex:1;padding:.9rem 1rem 0;overflow-y:auto}.terminal-sortie p{white-space:pre-wrap;overflow-wrap:anywhere;color:var(--texte)}.terminal-sortie .commande{color:var(--texte);margin-top:.6rem}.terminal-sortie .commande:before{content:"$ ";color:var(--cyan)}.terminal-ligne label{color:var(--cyan)}.terminal-ligne{border:1px solid var(--doux);border-radius:6px;align-items:center;gap:.6rem;margin:.4rem 1rem .9rem;padding:0 .75rem;display:flex}.terminal-ligne input{min-width:0;min-height:44px;color:var(--texte);font:inherit;caret-color:var(--cyan);background:0 0;border:0;flex:1;padding:0}.terminal-ligne input:focus{outline:none}.terminal:has(input:focus-visible) .terminal-ligne{border-color:var(--accent);box-shadow:0 0 0 1px var(--accent)}@media (prefers-reduced-motion:no-preference){.terminal[open]{animation:entree var(--d-moyen)var(--ease)}}@keyframes entree{0%{opacity:0;transform:translateY(14px)}}@media (prefers-reduced-motion:no-preference){.js .colonne-gauche>*,.js main>:is(.chapeau,section:first-of-type),.js .portrait{animation:entree var(--d-entree)var(--ease)backwards}.js .colonne-gauche>:nth-child(2){animation-delay:50ms}.js .colonne-gauche>:nth-child(3){animation-delay:.1s}.js .colonne-gauche>:nth-child(4){animation-delay:.15s}.js .colonne-gauche>:nth-child(n+5),.js main>:is(.chapeau,section:first-of-type){animation-delay:.2s}.js .portrait{animation-delay:.25s}.js .revele:not(.vu),.js .schema.revele:not(.vu) svg>g:last-of-type>*{opacity:0}.js .revele.vu,.js .schema.vu svg>g:last-of-type>*{animation:entree var(--d-entree)var(--ease)var(--delai,0s)backwards}.js .schema.vu svg>g:last-of-type>*{animation-name:entree-svg}@keyframes entree-svg{0%{opacity:0;transform:translateY(6px)}}}@media (prefers-reduced-motion:reduce){html{scroll-behavior:auto}.point{display:none}*,:before,:after{transition:none!important;animation:none!important}}
